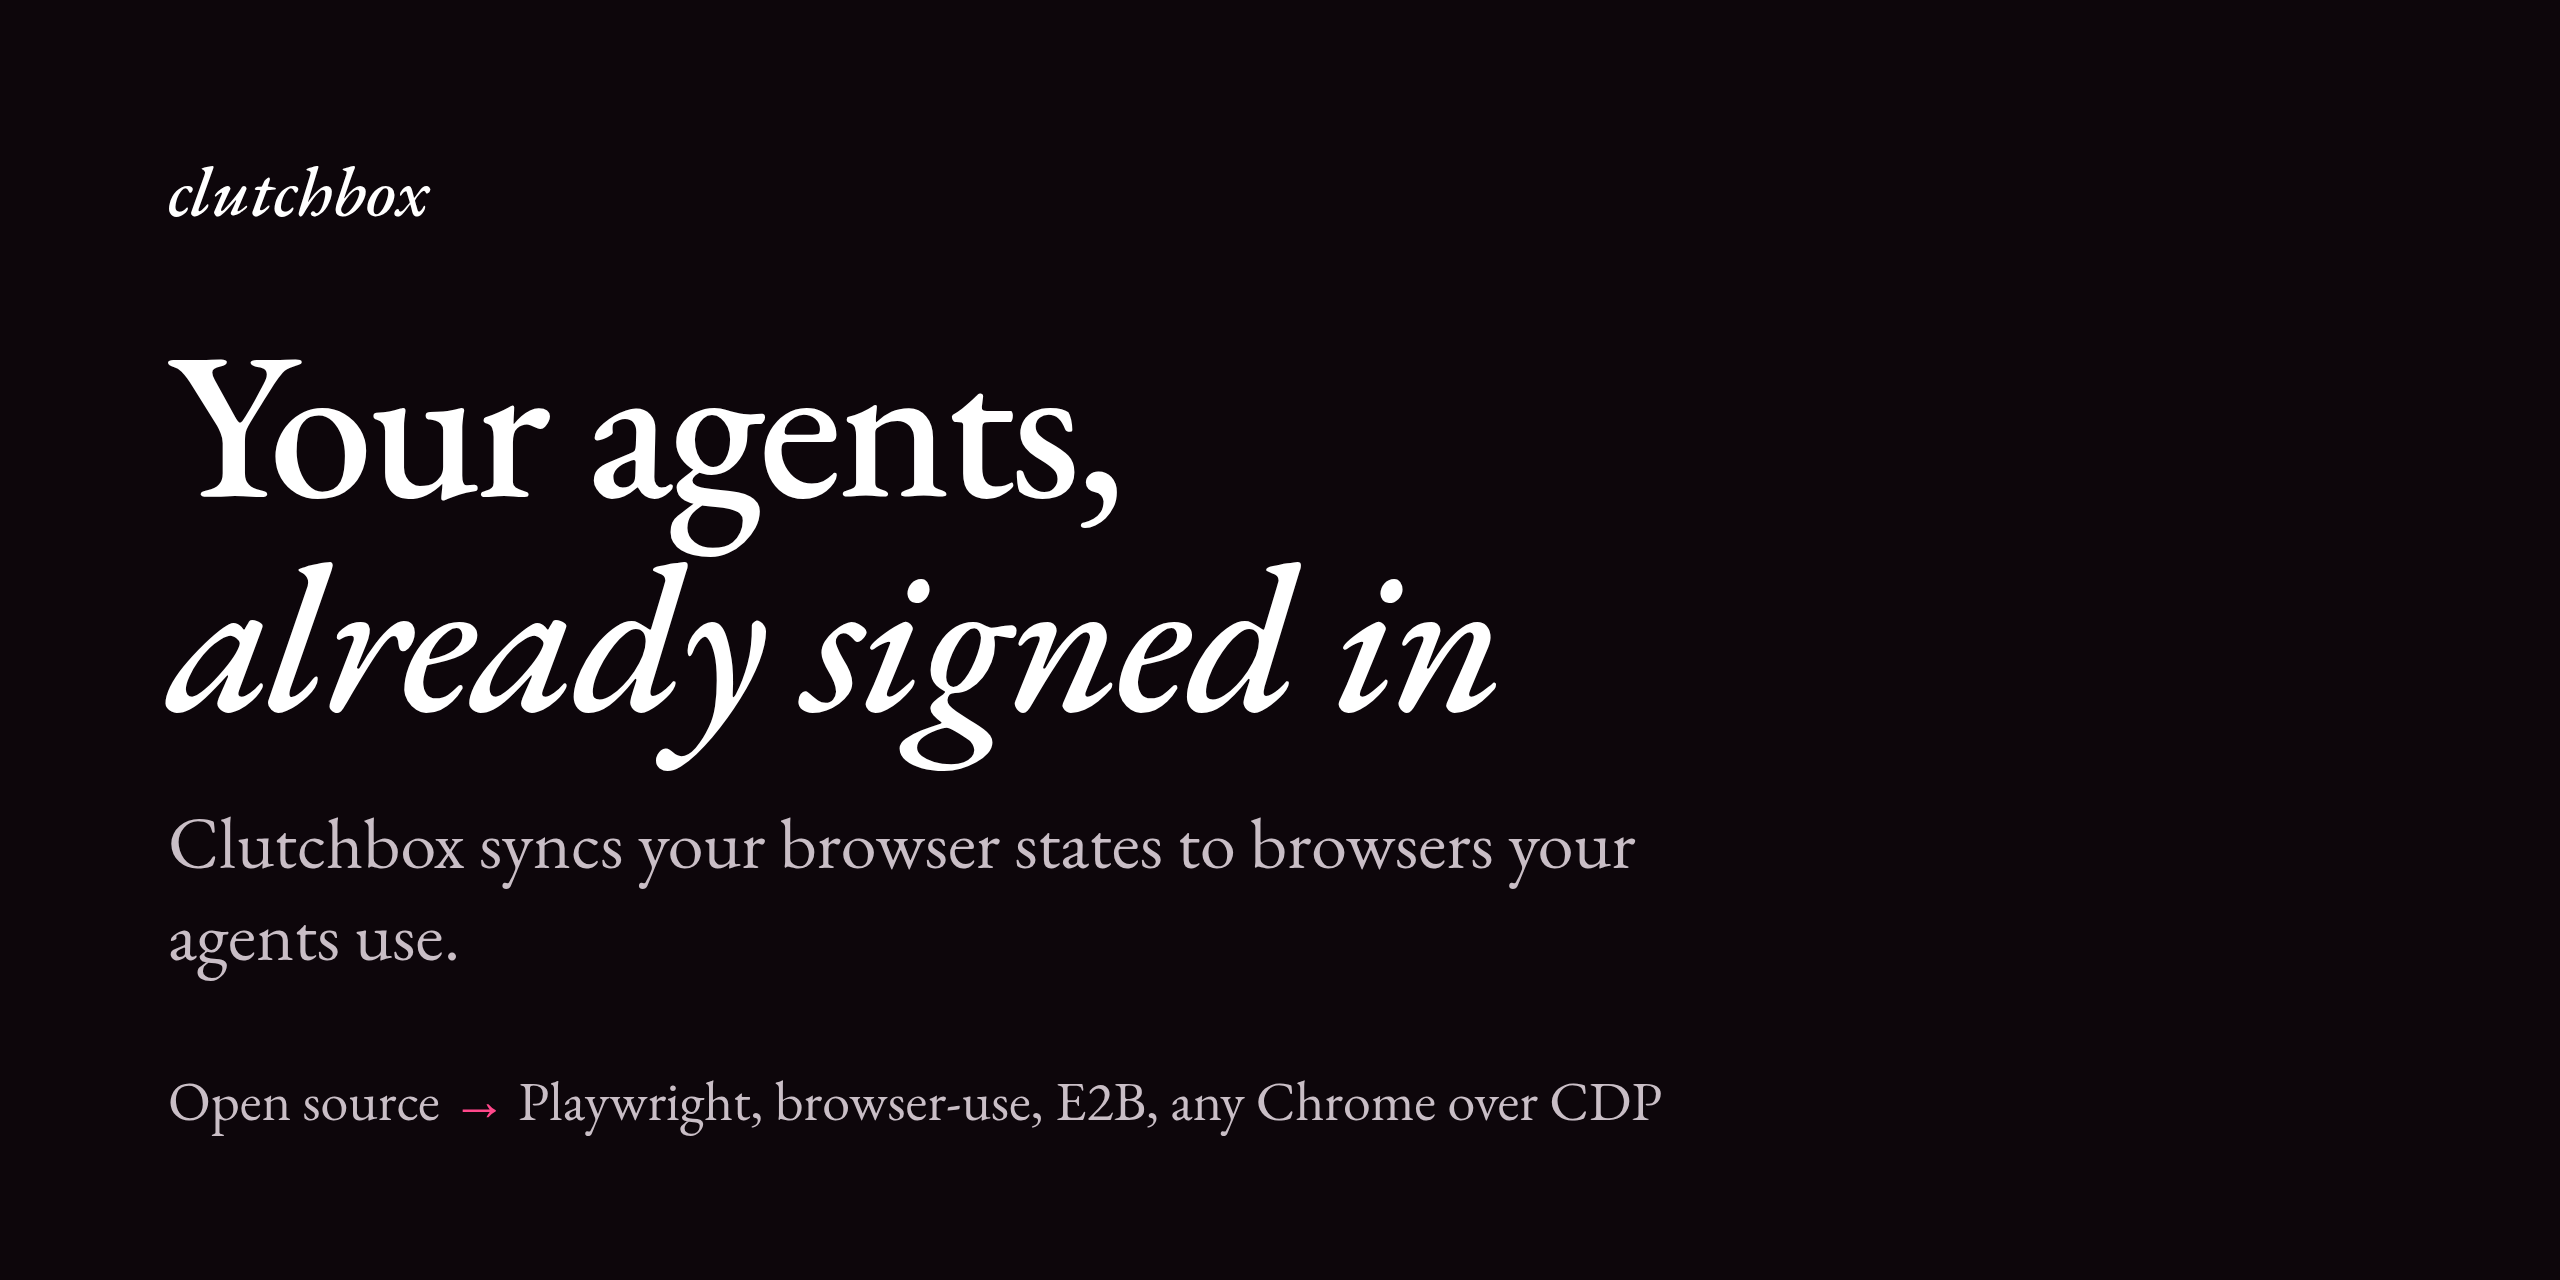
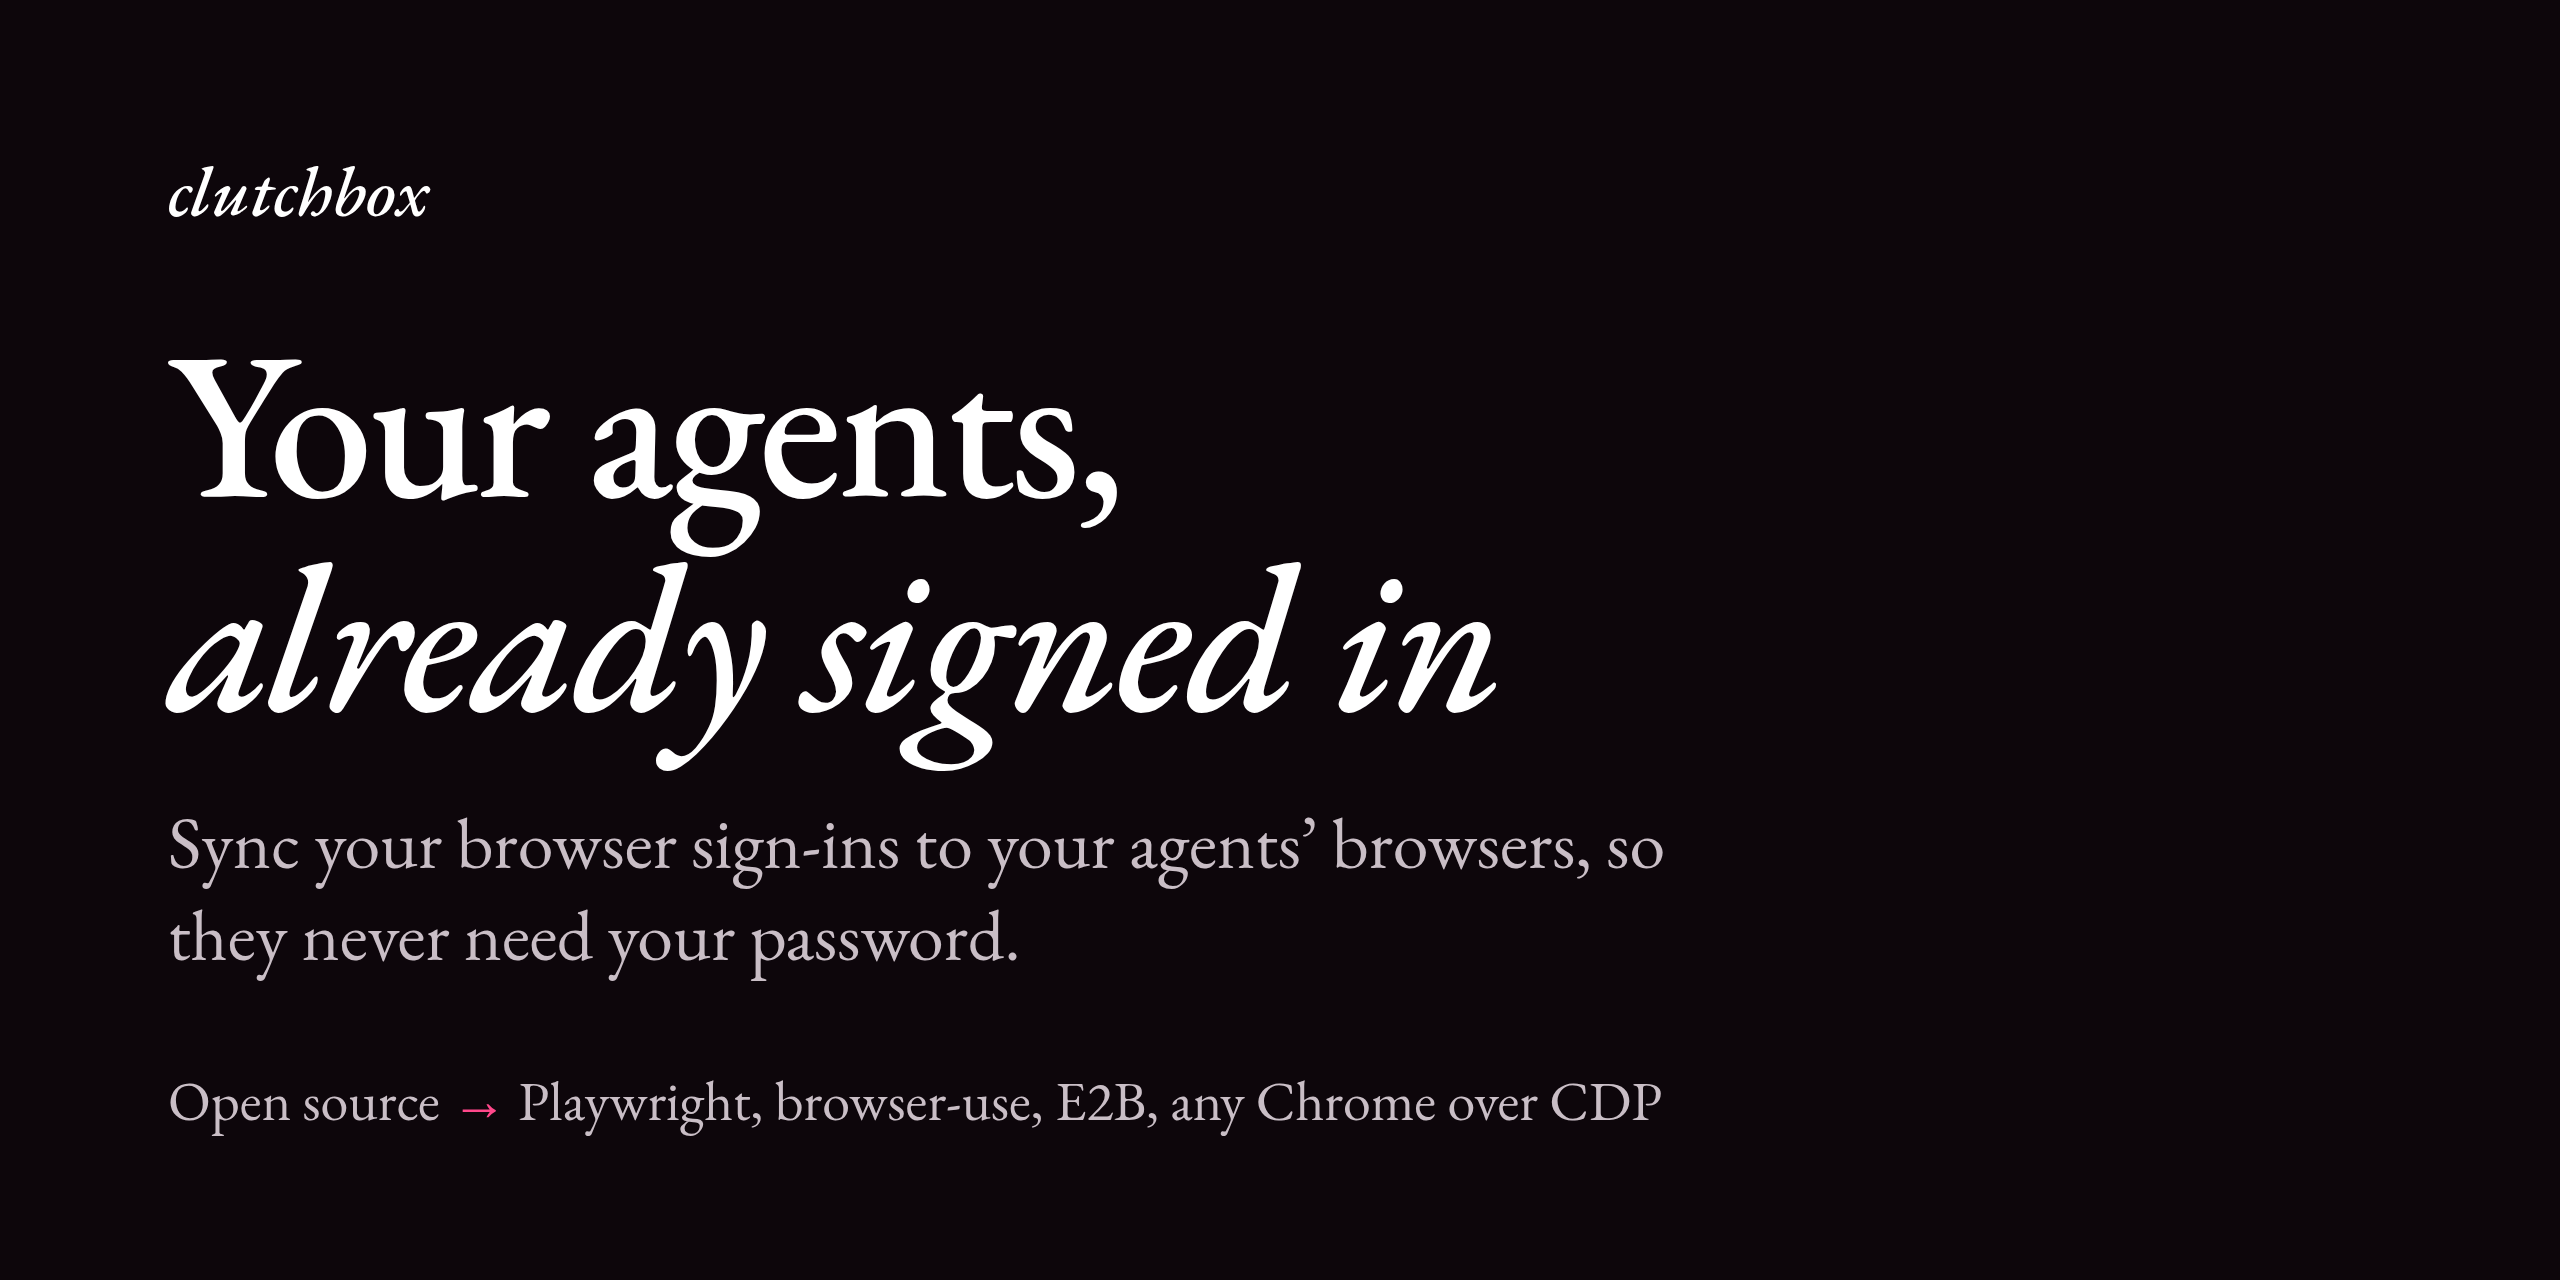
Use the new subhead: "Sync your browser sign-ins to your agents’ browsers, so they never need your password."

Changed region(s): [[0.0625, 0.625, 0.6562, 0.6875], [0.0625, 0.7188, 0.4062, 0.75]]

diff --git a/scripts/render-readme-images.ts b/scripts/render-readme-images.ts
@@ -18,7 +18,7 @@ const style = `
   .tagline { line-height: 1.3; color: #c9bec6; }
   .arrow { color: #ff488b; }`;
 const headline = 'Your agents, <span class="mark">already signed in</span>';
-const tagline = 'Clutchbox syncs your browser states to browsers your agents use.';
+const tagline = 'Sync your browser sign-ins to your agents’ browsers, so they never need your password.';
 const banner = `<div class="ground" style="justify-content:center;padding:0 80px">
   <p class="mark" style="font-size:30px;margin-bottom:36px">clutchbox</p>
   <h1 style="font-size:84px">${headline}</h1>

diff --git a/apps/web/app/layout.tsx b/apps/web/app/layout.tsx
@@ -23,7 +23,8 @@ const plex = localFont({
 export const metadata: Metadata = {
   metadataBase: new URL(siteOrigin),
   title: 'Clutchbox',
-  description: 'Your agents, already signed in. Clutchbox syncs your browser states to browsers your agents use.',
+  description:
+    'Your agents, already signed in. Sync your browser sign-ins to your agents’ browsers, so they never need your password.',
 };
 export default function RootLayout({ children }: { children: React.ReactNode }) {
   return (

diff --git a/README.md b/README.md
@@ -1,6 +1,6 @@
 <div align="center">
   <a href="https://www.clutchbox.dev">
-    <img src=".github/assets/banner.png" alt="Clutchbox: your agents, already signed in. Clutchbox syncs your browser states to browsers your agents use." width="100%">
+    <img src=".github/assets/banner.png" alt="Clutchbox: your agents, already signed in. Sync your browser sign-ins to your agents’ browsers, so they never need your password." width="100%">
   </a>
 
   <p>
@@ -22,7 +22,7 @@
   </p>
 </div>
 
-**Clutchbox syncs your browser states to browsers your agents use.** A Chrome extension captures the sites you choose and keeps them current in the background, one way. Your agent's browser (Playwright, browser-use, Stagehand, an E2B sandbox, or any Chrome over CDP) then starts signed in instead of blank. No passwords typed, no 2FA prompts, and no signing in again in every sandbox.
+**Sync your browser sign-ins to your agents’ browsers, so they never need your password.** A Chrome extension captures the sites you choose and keeps them current in the background, one way. Your agent's browser (Playwright, browser-use, Stagehand, an E2B sandbox, or any Chrome over CDP) then starts signed in instead of blank. No passwords typed, no 2FA prompts, and no signing in again in every sandbox.
 
 Everything here is Apache-2.0: the extension, the capture format, the apply runtime, the provider adapters, and the whole web app for one organization, with sign-in, browser sync, computers for agents with live view and takeover, and the MCP server agents connect to. Run all of it yourself, or use the hosted service at [clutchbox.dev](https://www.clutchbox.dev).
 
